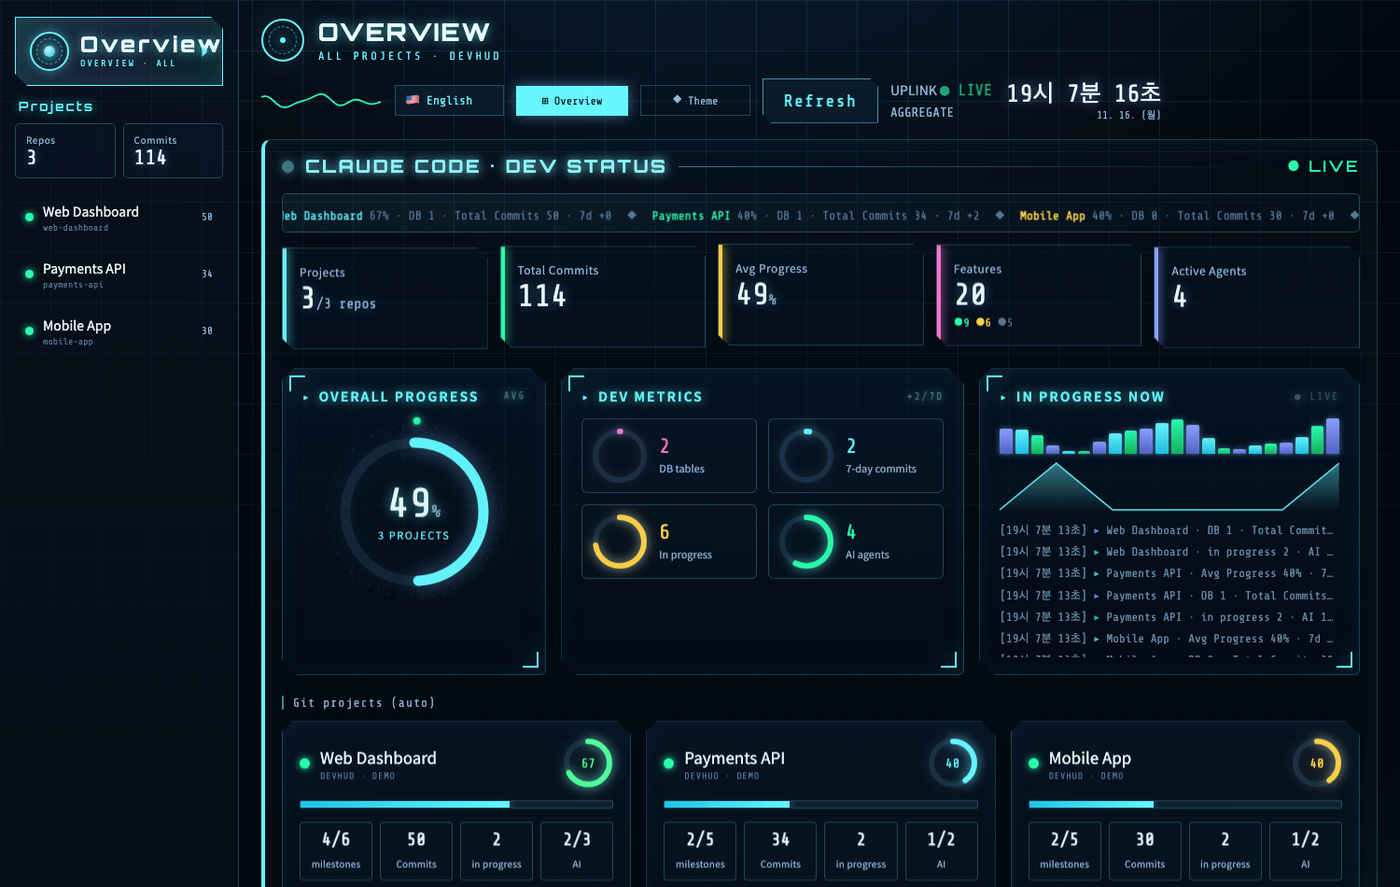
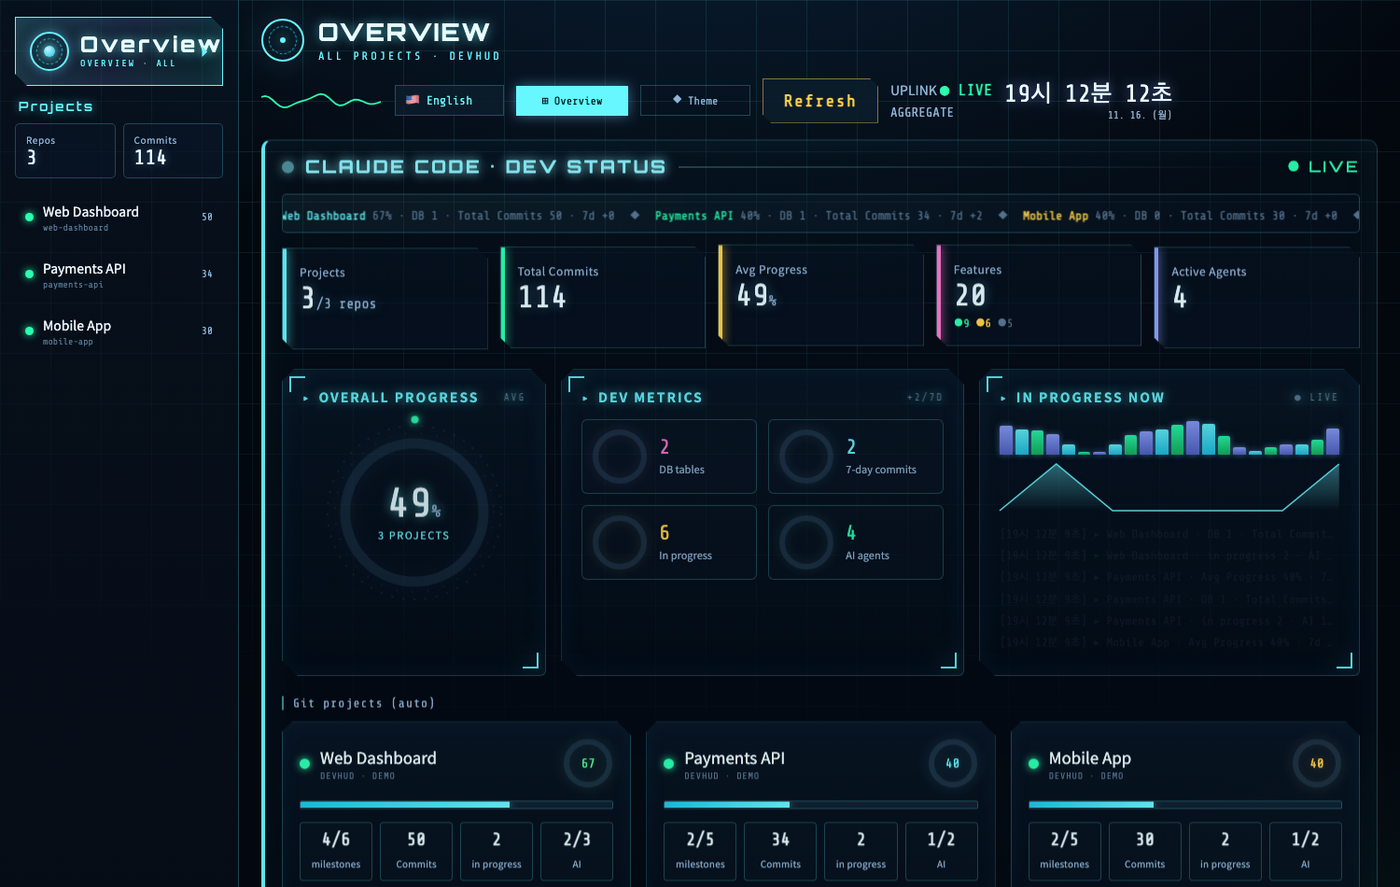
Hide Anthropic API panel until a key is configured (opt-in)
Keep the default view 100% automatic — no 'not set / configure this' card.
The Anthropic API tokens/cost panel now appears only when an Admin key is
present; otherwise it's hidden entirely. Refresh demo GIF/screenshot to the
clean default.

diff --git a/web/index.html b/web/index.html
@@ -343,8 +343,8 @@ body::before{content:"";position:fixed;inset:0;z-index:0;pointer-events:none;bac
         <div class="ovgrid" id="ovgrid"></div>
         <div class="ovsublbl"><span data-t="cu_title">Claude Code · 실측 토큰 사용량</span> <span class="realbadge" data-t="cu_real">REAL · LOCAL</span></div>
         <div class="hud cu"><div class="cu-tot" id="cuTot"></div><div class="cu-list" id="cuList"></div></div>
-        <div class="ovsublbl"><span data-t="au_title">Anthropic API · 토큰 · 비용</span> <span class="realbadge" id="auBadge" data-t="au_real">REAL · API</span></div>
-        <div class="hud cu" id="auPanel"></div>
+        <div class="ovsublbl" id="auHd" style="display:none"><span data-t="au_title">Anthropic API · 토큰 · 비용</span> <span class="realbadge" id="auBadge" data-t="au_real">REAL · API</span></div>
+        <div class="hud cu" id="auPanel" style="display:none"></div>
       </section>
       <!-- SECTION 2 · Other repos (indigo) -->
       <section class="ovsec oth" id="othSec">
@@ -602,9 +602,10 @@ function fmtTok(n){n=+n||0;if(n>=1e9)return (n/1e9).toFixed(2)+'B';if(n>=1e6)ret
 async function loadUsage(){try{const U=await(await fetch('/api/claude-usage',{cache:'no-store'})).json();renderUsage(U);}catch(e){}}
 async function loadApiUsage(){try{const A=await(await fetch('/api/api-usage',{cache:'no-store'})).json();renderApiUsage(A);}catch(e){}}
 function renderApiUsage(A){
-  const el0=el('auPanel');if(!el0)return;const bd=el('auBadge');
-  if(!A||!A.configured){if(bd){bd.textContent=tr('au_off');bd.classList.add('man');}
-    el0.innerHTML=`<div class="au-setup"><div class="au-h">${tr('au_setup')}</div><ol class="au-ol"><li>${tr('au_s1')}</li><li>${tr('au_s2')} <code>config.json</code> → <code>"anthropicAdminKey": "sk-ant-admin..."</code></li><li>${tr('au_s3')}</li></ol><div class="au-note">${tr('au_safe')}</div></div>`;return;}
+  const el0=el('auPanel'),hd=el('auHd');if(!el0)return;const bd=el('auBadge');
+  if(!A||!A.configured){ // opt-in: hide the whole panel unless a key is configured
+    if(hd)hd.style.display='none';el0.style.display='none';el0.innerHTML='';return;}
+  if(hd)hd.style.display='';el0.style.display='';
   if(bd){bd.textContent='REAL · API';bd.classList.remove('man');}
   if(A.error){el0.innerHTML=`<div class="au-setup"><div class="au-h" style="color:var(--red)">API error</div><div class="cur-d">${esc(A.error)}</div></div>`;return;}
   const tiles=[['cu_out',fmtTok(A.output),'#2bffb0'],['cu_in',fmtTok(A.input),'#67f7ff'],['cu_cache',fmtTok(A.cache),'#8ea2ff'],['au_cost',A.cost==null?'—':('$'+A.cost.toLocaleString()),'#ffd24a']];
